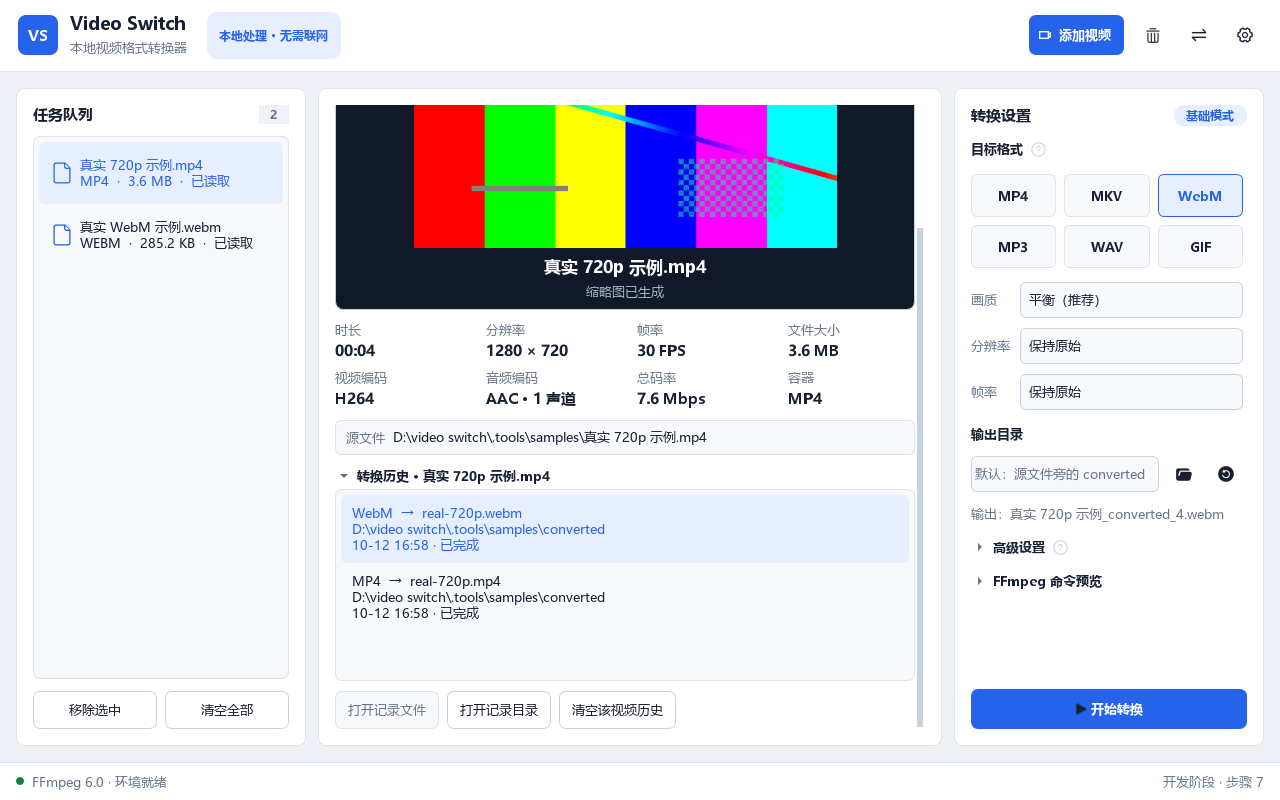
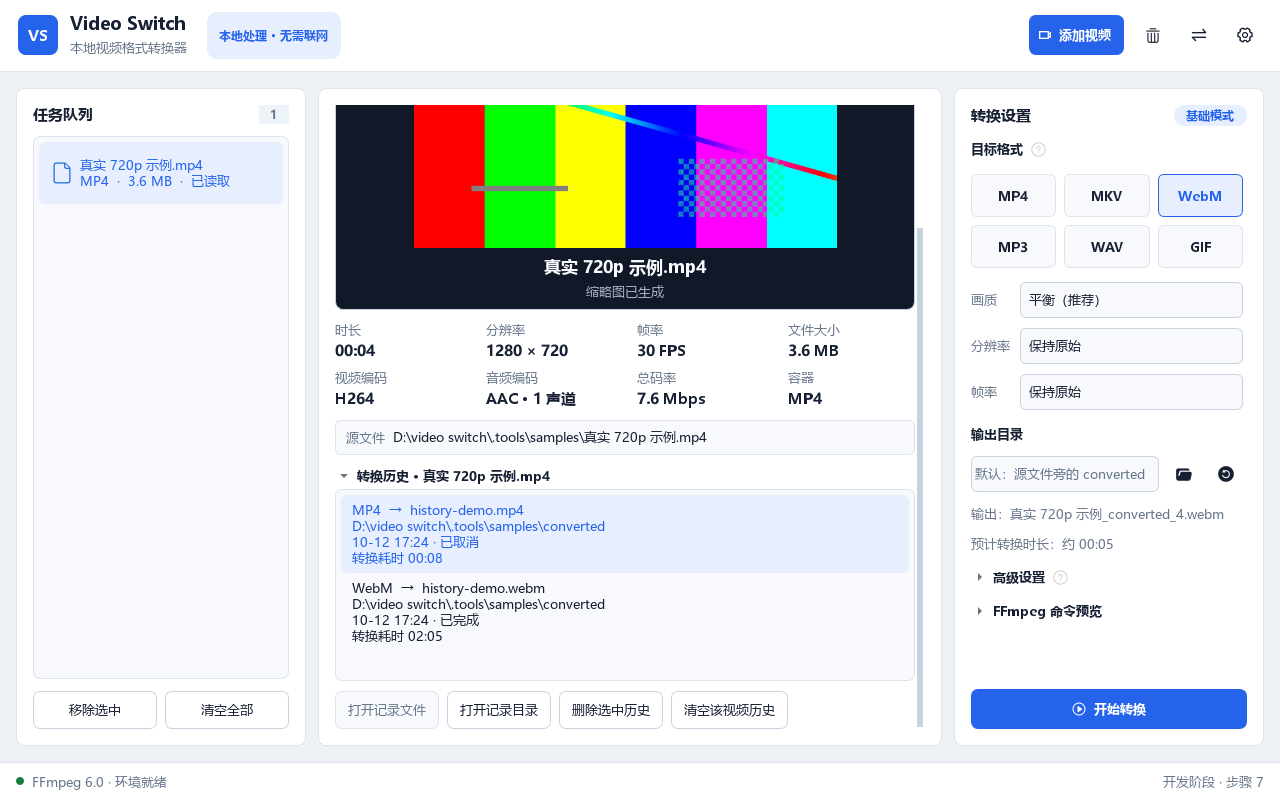
feat: delete single history and show duration

diff --git a/src/video_switch/ui/main_window.py b/src/video_switch/ui/main_window.py
@@ -1085,6 +1085,9 @@ class MainWindow(QMainWindow):
         self.history_folder_button = QPushButton("打开记录目录")
         self.history_folder_button.setObjectName("SecondaryAction")
         self.history_folder_button.clicked.connect(self._open_history_output_folder)
+        self.history_delete_button = QPushButton("删除选中历史")
+        self.history_delete_button.setObjectName("SecondaryAction")
+        self.history_delete_button.clicked.connect(self._delete_selected_history)
         self.history_clear_button = QPushButton("清空该视频历史")
         self.history_clear_button.setObjectName("SecondaryAction")
         self.history_clear_button.clicked.connect(self._clear_history)
@@ -1093,6 +1096,7 @@ class MainWindow(QMainWindow):
         history_actions.setSpacing(8)
         history_actions.addWidget(self.history_open_button)
         history_actions.addWidget(self.history_folder_button)
+        history_actions.addWidget(self.history_delete_button)
         history_actions.addWidget(self.history_clear_button)
         history_actions.addStretch(1)
 
@@ -2334,17 +2338,20 @@ class MainWindow(QMainWindow):
             size_text = (
                 f" · {format_file_size(record.file_size)}" if record.file_size is not None else ""
             )
+            elapsed_text = self._format_duration(record.elapsed_seconds)
             item = QListWidgetItem(
                 f"{record.output_format}  →  {record.output_path.name}\n"
                 f"{record.output_directory}\n"
-                f"{timestamp} · {record.status}{size_text}"
+                f"{timestamp} · {record.status}{size_text}\n"
+                f"转换耗时 {elapsed_text}"
             )
             item.setData(Qt.ItemDataRole.UserRole, record.record_id)
             item.setToolTip(
                 f"源文件：{record.source_path}\n"
                 f"输出文件：{record.output_path}\n"
                 f"转换类型：{record.output_format}\n"
-                f"状态：{record.status}" + (f"\n原因：{record.error}" if record.error else "")
+                f"状态：{record.status}\n"
+                f"转换耗时：{elapsed_text}" + (f"\n原因：{record.error}" if record.error else "")
             )
             self.history_list.addItem(item)
 
@@ -2375,6 +2382,7 @@ class MainWindow(QMainWindow):
         self.history_folder_button.setEnabled(
             record is not None and record.output_directory.is_dir()
         )
+        self.history_delete_button.setEnabled(record is not None)
         self.history_clear_button.setEnabled(bool(self.history_records))
 
     def _open_history_output_file(
@@ -2395,6 +2403,37 @@ class MainWindow(QMainWindow):
         if record is None or not record.output_directory.is_dir():
             return
         QDesktopServices.openUrl(QUrl.fromLocalFile(str(record.output_directory)))
+
+    def _delete_selected_history(self) -> None:
+        record = self._selected_history_record()
+        if record is None:
+            return
+        dialog = QMessageBox(self)
+        dialog.setWindowTitle("删除历史记录")
+        dialog.setIcon(QMessageBox.Icon.Warning)
+        dialog.setText(f"确定删除这条 {record.output_format} 转换历史吗？")
+        delete_button = dialog.addButton(
+            "删除",
+            QMessageBox.ButtonRole.DestructiveRole,
+        )
+        cancel_button = dialog.addButton(
+            "取消",
+            QMessageBox.ButtonRole.RejectRole,
+        )
+        dialog.setDefaultButton(cancel_button)
+        dialog.exec()
+        if dialog.clickedButton() is not delete_button:
+            return
+        try:
+            self.history_records = self.history_store.delete_record(record.record_id)
+        except OSError as error:
+            self._show_footer_message(
+                f"删除历史失败：{error}",
+                state="error",
+                timeout=6000,
+            )
+            return
+        self._refresh_history_list()
 
     def _clear_history(self) -> None:
         task_key = self._current_task_key()

diff --git a/src/video_switch/services/history_store.py b/src/video_switch/services/history_store.py
@@ -75,6 +75,11 @@ class ConversionHistoryStore:
         self._write(records)
         return records
 
+    def delete_record(self, record_id: str) -> list[ConversionHistoryRecord]:
+        records = [record for record in self.load() if record.record_id != record_id]
+        self._write(records)
+        return records
+
     def delete_by_source_keys(
         self,
         source_keys: set[str],

diff --git a/tests/test_history_store.py b/tests/test_history_store.py
@@ -42,6 +42,9 @@ def test_history_store_round_trip(tmp_path: Path) -> None:
     records = store.delete_by_source_key("source-key")
     assert [record.record_id for record in records] == ["second"]
 
+    records = store.delete_record("second")
+    assert records == []
+
     store.clear()
     assert store.load() == []
 

diff --git a/tests/test_app_smoke.py b/tests/test_app_smoke.py
@@ -373,6 +373,7 @@ def test_conversion_history_record_is_added(
     item = window.history_list.item(0)
     assert "MKV" in item.text()
     assert str(output.parent) in item.text()
+    assert "转换耗时" in item.text()
 
 
 def test_removing_task_can_delete_associated_history(

diff --git a/docs/开发决策记录.md b/docs/开发决策记录.md
@@ -402,6 +402,13 @@ DPI 感知位图，而不是交给 QIcon 状态着色，确保浅色和深色主
 - 决策：根据视频时长、目标格式、编码器、目标分辨率和帧率计算预计转换时长。
 - 原因：为用户选择编码格式和安排等待时间提供参考；实际转换仍以速度反馈为准。
 
+## DR-053 历史支持单条删除并显示转换耗时
+
+- 状态：已接受
+- 背景：原先只能清空当前视频的全部历史，历史条目也未显示实际转换耗时。
+- 决策：新增“删除选中历史”按钮，并在每条记录中显示 `转换耗时`。
+- 原因：用户可以精确管理历史，同时直观比较不同编码和预设的实际耗时。
+
 ## DR-035 SVG 图标按设备像素比渲染
 
 - 状态：已接受
@@ -467,6 +474,7 @@ DPI 感知位图，而不是交给 QIcon 状态着色，确保浅色和深色主
 | 2026-10-12 | 历史不应显示大汇总 | 改为只显示当前选中源视频的历史 |
 | 2026-10-12 | 开始转换图标需替换并上下对齐 | 使用运行 SVG 和自绘文字按钮 |
 | 2026-10-12 | 取消后需要恢复并需要时长预测 | 增加恢复按钮和按编码负载估算时长 |
+| 2026-10-12 | 历史缺少单条删除且看不到转换时间 | 增加单条删除按钮和历史转换耗时 |
 | 2026-10-12 | 旧历史文件导致启动崩溃 | 兼容缺失 source_key 并生成路径分组键 |
 | 2026-10-12 | SVG 图标在高 DPI 屏幕发糊 | 改为按 devicePixelRatio 渲染并为 DPR 变化重绘 |
 | 2026-10-12 | 加粗中文字体发糊 | 统一真实字重、全像素 hinting 和抗锯齿设置 |

diff --git a/docs/会话总结.md b/docs/会话总结.md
@@ -143,6 +143,8 @@ GitHub，并在 Releases 中提供 Windows 运行包。
 - “开始转换”按钮替换为 `icon/运行.svg`，图标按文字高度渲染并与文字垂直居中。
 - 已取消状态新增“恢复转换”按钮，点击后从开始重新执行转换。
 - 转换设置区新增“预计转换时长”，根据源视频时长、格式、编码、分辨率和帧率估算。
+- 历史记录新增“转换耗时”显示。
+- 历史操作区新增“删除选中历史”，支持只删除单条转换记录。
 - SVG 图标改为 DPI 感知渲染：按当前屏幕缩放倍率生成物理像素，并设置
   `QPixmap.devicePixelRatio`，解决高 DPI 屏幕上二次放大导致的模糊。
 - “添加视频”按钮图标同样改为 DPI 感知 SVG，并在 200% 屏幕按 2 倍物理像素渲染。
